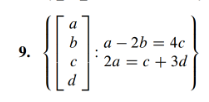
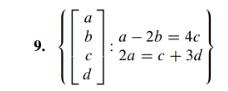
vault backup: 2025-03-04 22:30:32

Changed region(s): [[0.0861, 0.0879, 0.9474, 0.9451], [0.2297, 0.0, 0.3158, 0.022], [0.3732, 0.0, 0.4306, 0.022]]

diff --git a/MAS/test_or_quizzes/Exam 2 practice questions.md b/MAS/test_or_quizzes/Exam 2 practice questions.md
@@ -310,4 +310,32 @@ $$7.\;\;\left\{{\left[\begin{array}{l}{a}\\ {b}\\ {c}\end{array}\right]}\colon a
 Not a vector space. There is a constant in that equation, which means that this set will not contain $(0,0,0)$ 
 
 ## 9.) 
-$${\bf9.}\;\left\{{\left[\begin{array}{l}{{a}}\\ {{b}}\\ {{c}}\\ {{d}}\end{array}\right]};{\begin{array}{l}{{a-2b=4c}}\\ {{2a=c+3d}}\end{array}\right\}}$$
+$${\textbf{9.}}\left\{{\left[\begin{array}{l}{a}\\ {b}\\ {c}\\ {d}\end{array}\right]}\colon{\begin{array}{l}{a-2b=4c}\\ {2a=c+3d}\end{array}}\right\}$$
+
+**Solution**
+Yes it is a set.
+$W$ is the set of solution of the homogenous system:
+$$
+\begin{matrix}
+& a & -2b & -4c & +0  & =0 \\
+&2a & +0  & -c  & -3d & =0
+\end{matrix}
+$$
+If that doesnt make sense. Then just write the system of equations in a matrix
+$$
+\begin{bmatrix}
+1 & -2 & -4  & 0 \\
+2 & 0 & -1 & -3
+\end{bmatrix}
+$$
+You can solve this matrix and get 2 pivots. If im not mistaken $\text{Row A}$ is the same as $W$
+
+
+
+---
+
+# 4.3 pp 228
+
+---
+
+1.
